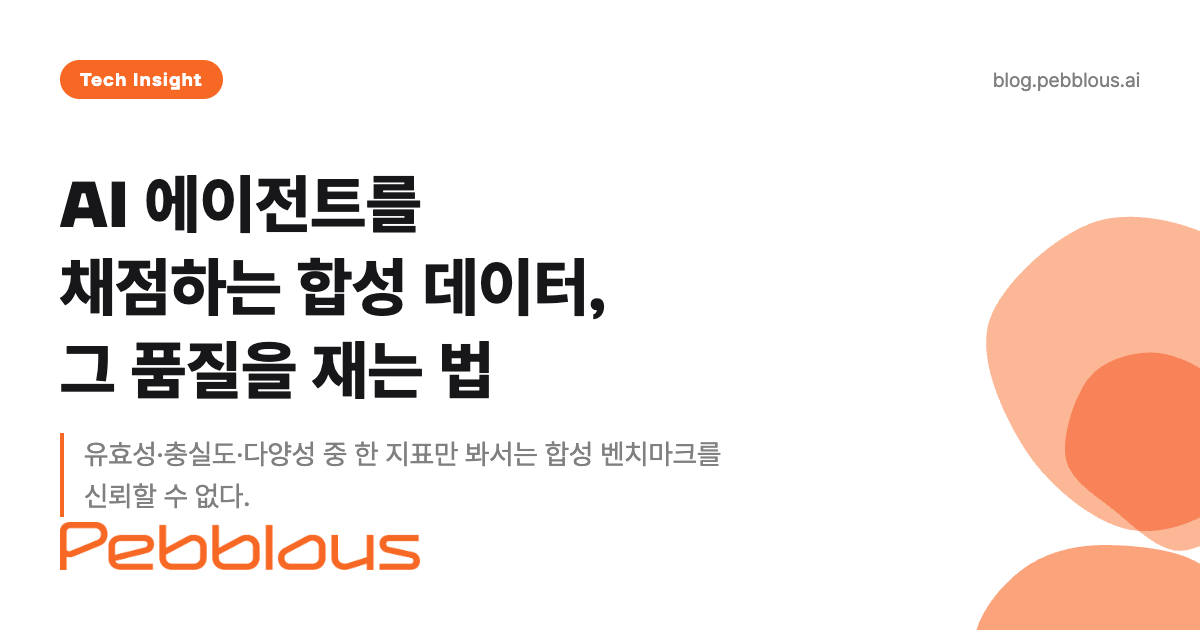
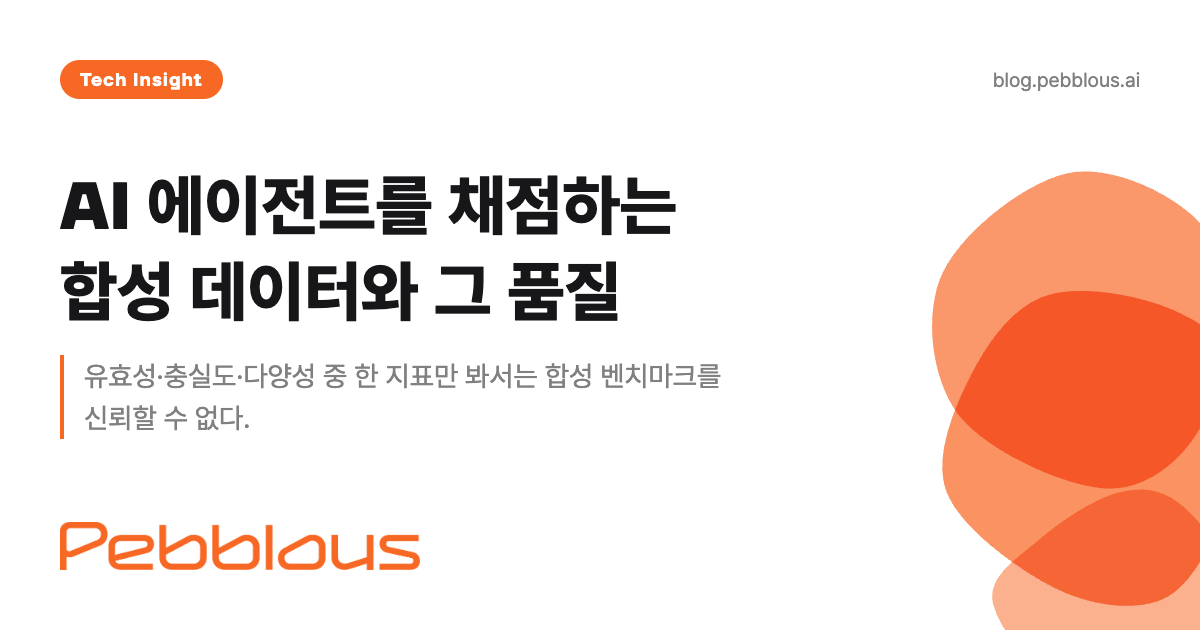
chore(titles): 제목·메타 일괄 교정 1건/2필드 (제목 검토 콘솔)\n\n- synae-synthetic-benchmark-quality-ko:\n    제목: AI 에이전트를 채점하는 합성 데이터, 그 품질을 측정하는 법 → AI 에이전트를 채점하는 합성 데이터와 그 품질\n    OG 이미지 제목: AI 에이전트를 채점하는 합성 데이터, 그 품질을 측정하는 법 → AI 에이전트를 채점하는 합성 데이터와 그 품질

diff --git a/blog/synae-synthetic-benchmark-quality/ko/index.html b/blog/synae-synthetic-benchmark-quality/ko/index.html
@@ -10,7 +10,7 @@
     <meta name="copyright" content="© 2026 Pebblous. All rights reserved.">
     <meta name="robots" content="index, follow">
 
-    <title>SynAE 합성 데이터 품질 평가, AI 에이전트 벤치마크를 측정하는 법 | 페블러스</title>
+    <title>AI 에이전트를 채점하는 합성 데이터와 그 품질 | 페블러스</title>
     <meta name="description" content="SynAE는 툴콜링 에이전트 평가에 쓰는 합성 데이터를 과제 지시·툴 호출·최종 출력·다운스트림 성능 네 축에서 유효성·충실도·다양성으로 잰다. CMU와 마이크로소프트 연구진은 단일 지표 하나로는 합성 벤치마크의 품질을 규정할 수 없다고 결론짓는다.">
     <meta name="keywords" content="SynAE, 합성 데이터 품질, AI 에이전트 평가, 툴콜링 에이전트 벤치마크, 합성 벤치마크 유효성 충실도 다양성, 단일 지표 한계, AI 벤치마크 데이터 진단, 데이터 품질">
 
@@ -20,9 +20,9 @@
     <link rel="alternate" hreflang="x-default" href="https://blog.pebblous.ai/blog/synae-synthetic-benchmark-quality/ko/">
 
     <!-- Open Graph -->
-    <meta name="og-image-title" content="AI 에이전트를 채점하는 합성 데이터, 그 품질을 측정하는 법">
+    <meta name="og-image-title" content="AI 에이전트를 채점하는 합성 데이터와 그 품질">
     <meta property="og:type" content="article">
-    <meta property="og:title" content="AI 에이전트를 채점하는 합성 데이터, 그 품질을 측정하는 법">
+    <meta property="og:title" content="AI 에이전트를 채점하는 합성 데이터와 그 품질">
     <meta property="og:description" content="유효성·충실도·다양성 중 한 지표만 봐서는 합성 벤치마크를 신뢰할 수 없다. SynAE가 시험지가 되는 데이터부터 진단하는 법을 보여 준다.">
     <meta property="og:url" content="https://blog.pebblous.ai/blog/synae-synthetic-benchmark-quality/ko/">
     <meta property="og:image" content="https://blog.pebblous.ai/blog/synae-synthetic-benchmark-quality/ko/image/index.png">
@@ -35,7 +35,7 @@
 
     <!-- Twitter Card -->
     <meta name="twitter:card" content="summary_large_image">
-    <meta name="twitter:title" content="AI 에이전트를 채점하는 합성 데이터, 그 품질을 측정하는 법">
+    <meta name="twitter:title" content="AI 에이전트를 채점하는 합성 데이터와 그 품질">
     <meta name="twitter:description" content="유효성·충실도·다양성 중 한 지표만 봐서는 합성 벤치마크를 신뢰할 수 없다. SynAE가 시험지가 되는 데이터부터 진단하는 법을 보여 준다.">
     <meta name="twitter:image" content="https://blog.pebblous.ai/blog/synae-synthetic-benchmark-quality/ko/image/index.png">
     <meta name="twitter:image:alt" content="AI 에이전트를 채점하는 합성 데이터, 그 품질을 측정하는 법">
@@ -376,9 +376,9 @@
               },
               "recordedAt": "2026-07-18T20:05:46.221Z"
             },
-            mainTitle: "AI 에이전트를 채점하는 합성 데이터, 그 품질을 측정하는 법",
+            mainTitle: "AI 에이전트를 채점하는 합성 데이터와 그 품질",
             subtitle: "SynAE가 유효성·충실도·다양성 세 잣대로 툴콜링 에이전트의 합성 시험지를 진단한다",
-            pageTitle: "SynAE 합성 데이터 품질 평가, AI 에이전트 벤치마크를 측정하는 법 | 페블러스",
+            pageTitle: "AI 에이전트를 채점하는 합성 데이터와 그 품질 | 페블러스",
             category: "tech",
             publishDate: "2026-07-19",
             publisher: "(주)페블러스 데이터 커뮤니케이션팀",
